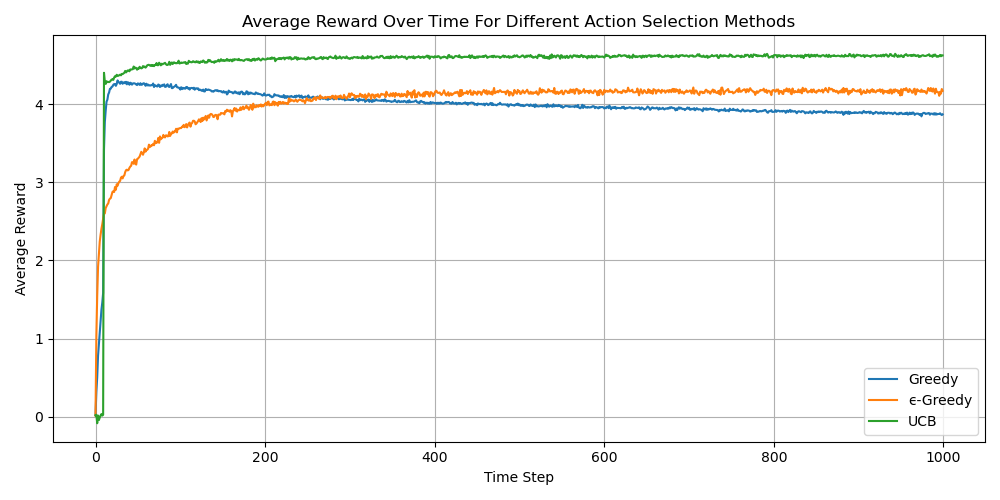
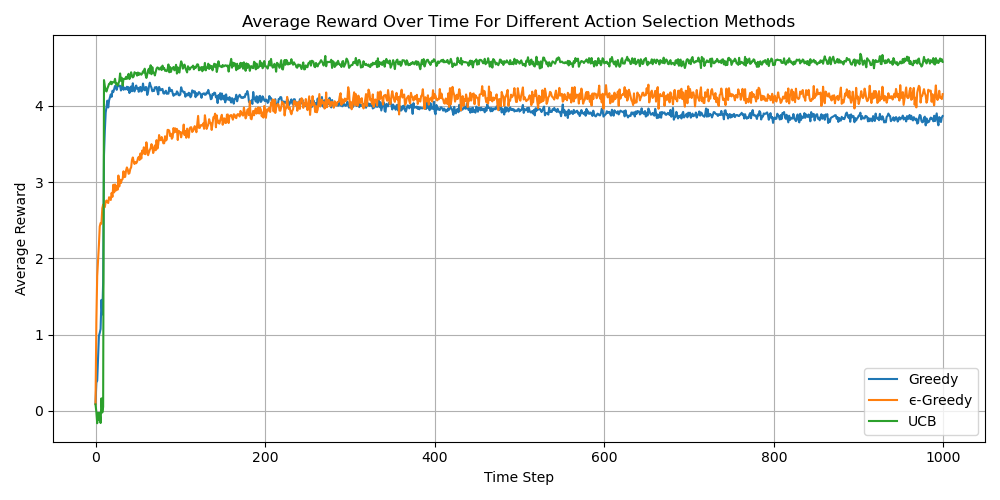
Experiment II

diff --git a/main.py b/main.py
@@ -30,7 +30,7 @@ def Runs(Run_, num_runs, num_actions, num_timesteps, q_1, epsilon, c):
 
 
 ### * * * * * * * * EXPERIMENT 1 * * * * * * * * ### 
-'''
+
 num_actions = 10
 num_timesteps = 1000
 num_runs = 1000
@@ -55,7 +55,7 @@ plt.legend()
 plt.grid(True)
 plt.tight_layout()
 plt.show()
-'''
+
 
 ### * * * * * * * * EXPERIMENT 2 * * * * * * * * ###
 
